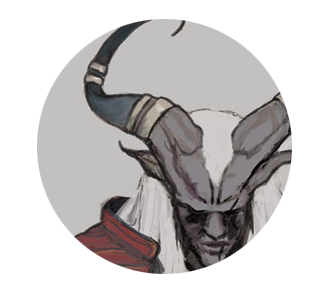
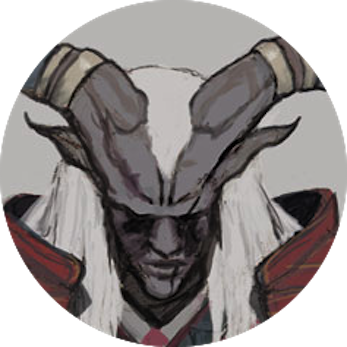
Added new thumbnails.

diff --git a/index.html b/index.html
@@ -31,7 +31,9 @@
 			<div id="menuLeft">
 				<div class="illu thumbs">
 					<a class="galleryillu" href="img/illu/amelia.jpg" /><img src="img/illu/ameliathumb.png" /></a>
-					<a class="galleryillu" href="img/illu/saucers.jpg" /><img src="img/illu/saucersthumb.png" /></a>	
+					<a class="galleryillu" href="img/illu/saucers.jpg" /><img src="img/illu/saucersthumb.png" /></a>
+					<a class="galleryillu" href="img/illu/golemdone.jpg" /><img src="img/illu/golemthumb.png" /></a>
+					<a class="galleryillu" href="img/illu/smaug.jpg" /><img src="img/illu/smaugthumb.png" /></a>
 				</div>
 				<div class="sketch thumbs">
 					Sketch

diff --git a/css/main.css b/css/main.css
@@ -141,7 +141,7 @@ img {
 }
 
 .thumbs img{
-    width: 100px;
+    width: 75px;
     margin: 15px;
 }
 
